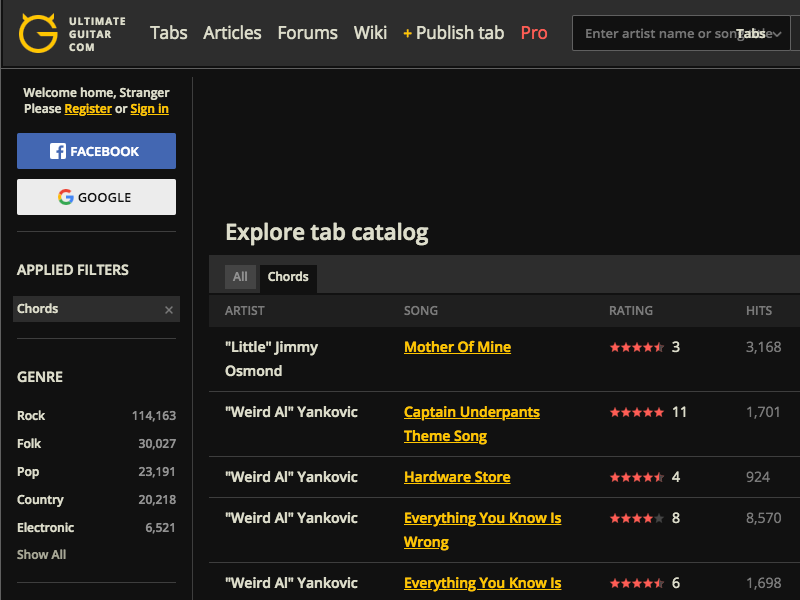
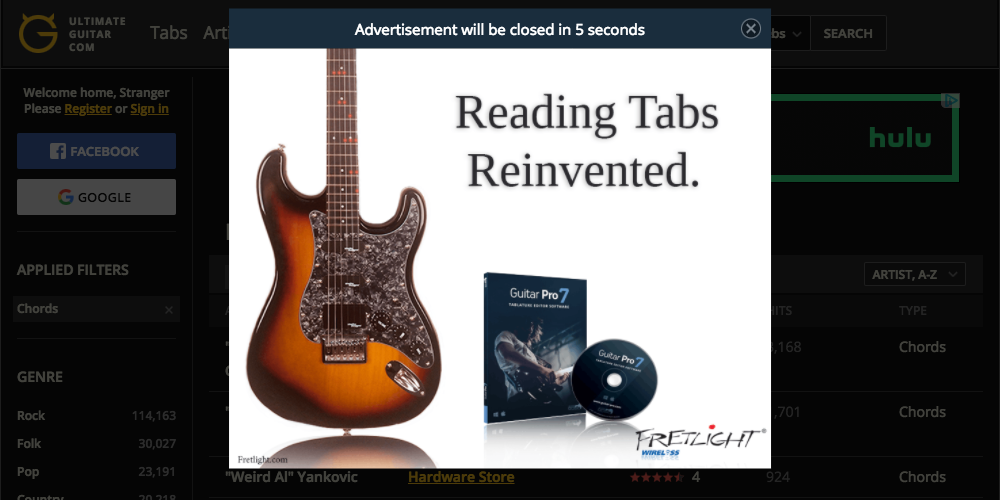
next page kinda works

diff --git a/getLinks/crawlChords.js b/getLinks/crawlChords.js
@@ -11,6 +11,7 @@ async function getLinks() {
   var list;
   
   await page.goto('https://www.ultimate-guitar.com/explore?order=artistname_asc&type[]=Chords');
+  await page.setViewport({width: 1000, height: 500})
   await page.screenshot({ path: 'screenshots/ultimateguitar.png' });
 
   while(await page.$(NEXT_PAGE) != null){
@@ -19,6 +20,8 @@ async function getLinks() {
       page.click("#Rectangle");
     // await page.waitFor(() => !document.querySelector("#Rectangle"));
     }
+    await page.setViewport({width: 2000, height: 1000})
+
     console.log("out of the if statement, ad should be gone");
 
     list = await page.evaluateHandle(() => {
